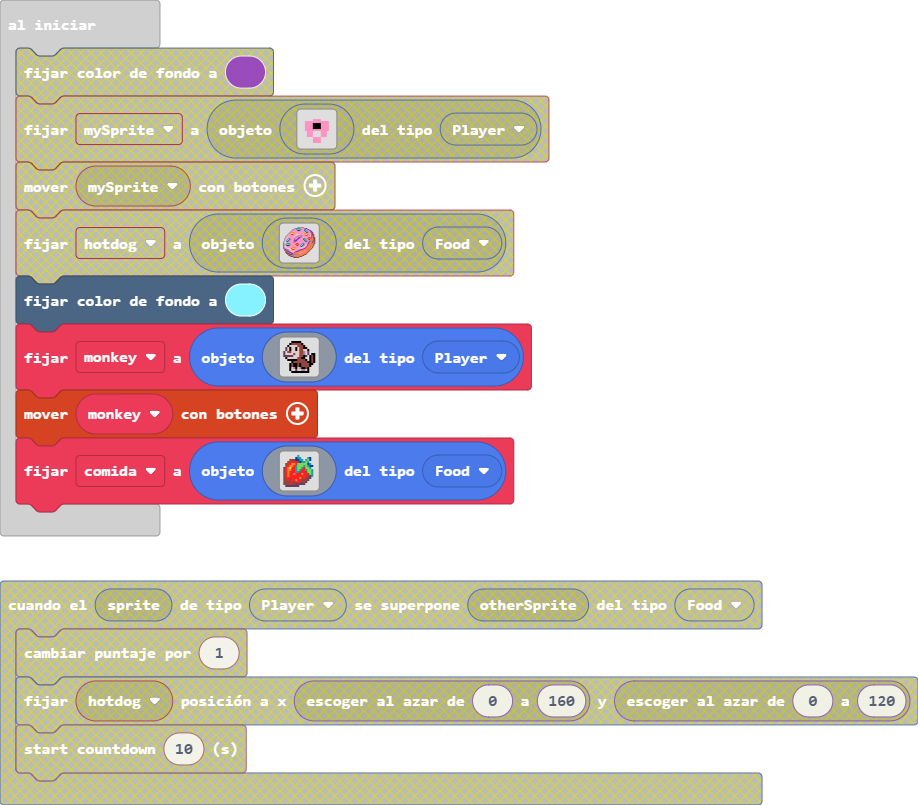
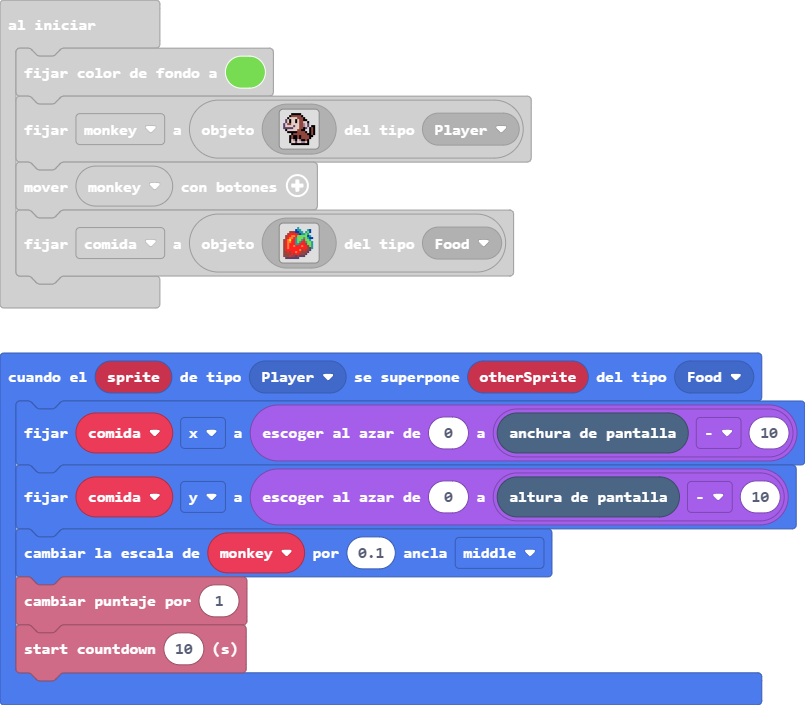
Actualizar main.blocks, main.ts

diff --git a/main.ts b/main.ts
@@ -1,5 +1,14 @@
-scene.setBackgroundColor(9)
-let monkey = sprites.create(img`
+sprites.onOverlap(SpriteKind.Player, SpriteKind.Food, function (sprite, otherSprite) {
+    comida.x = randint(0, scene.screenWidth() - 10)
+    comida.y = randint(0, scene.screenHeight() - 10)
+    monkey.changeScale(0.1, ScaleAnchor.Middle)
+    info.changeScoreBy(1)
+    info.startCountdown(10)
+})
+let comida: Sprite = null
+let monkey: Sprite = null
+scene.setBackgroundColor(7)
+monkey = sprites.create(img`
     . . . . f f f f f . . . . . . . 
     . . . f e e e e e f . . . . . . 
     . . f d d d d e e e f . . . . . 
@@ -18,7 +27,7 @@ let monkey = sprites.create(img`
     . . . . f f f f f f f f f . . . 
     `, SpriteKind.Player)
 controller.moveSprite(monkey)
-let comida = sprites.create(img`
+comida = sprites.create(img`
     . . . . . . . 6 . . . . . . . . 
     . . . . . . 8 6 6 . . . 6 8 . . 
     . . . e e e 8 8 6 6 . 6 7 8 . . 
